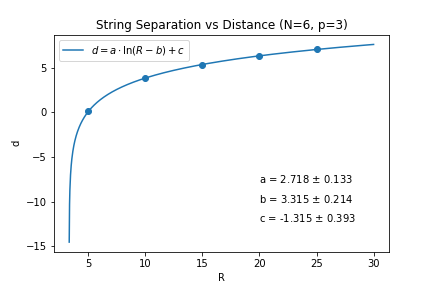
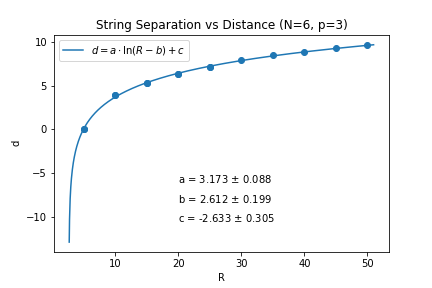
added tensions and separation plots for N=2 to 9 results

diff --git a/confinepy package/confinepy/source.py b/confinepy package/confinepy/source.py
@@ -2290,6 +2290,13 @@ def get_no_solution_list():
             no_solution_list.append(folder)
     return no_solution_list
 
+def plot_all_tensions_and_separation():
+    for N in range(2,9+1):
+        p_max = max_Nality(N)
+        for p in range(1,p_max+1):
+            compute_tension(N,p)
+            compute_string_separation(N,p)
+
 """ ============== subsection: Tensions ===================================="""
 def get_R_and_energy_array(N,charge_arg):
     #initialze lists
@@ -2446,13 +2453,4 @@ def compute_string_separation(N,p):
     return R_array,d_array
 
 if __name__ == "__main__":
-    # sol = confining_string_solver(N=3,charge_arg="w1",bound_arg="x1",
-    #                               L=30,w=30,R=9,h=0.1,
-    #                               initial_kw="BPS",
-    #                               use_half_grid=True)
-    # Np_list = [(4,1),(4,2),(5,1),(5,2),(6,1),(6,2),(6,3),(7,1),(7,2),(7,3)]
-    # for tup in Np_list:
-    #     N,p = tup
-    #     compute_tension(N,p)
-    #     compute_string_separation(N,p)
     pass
